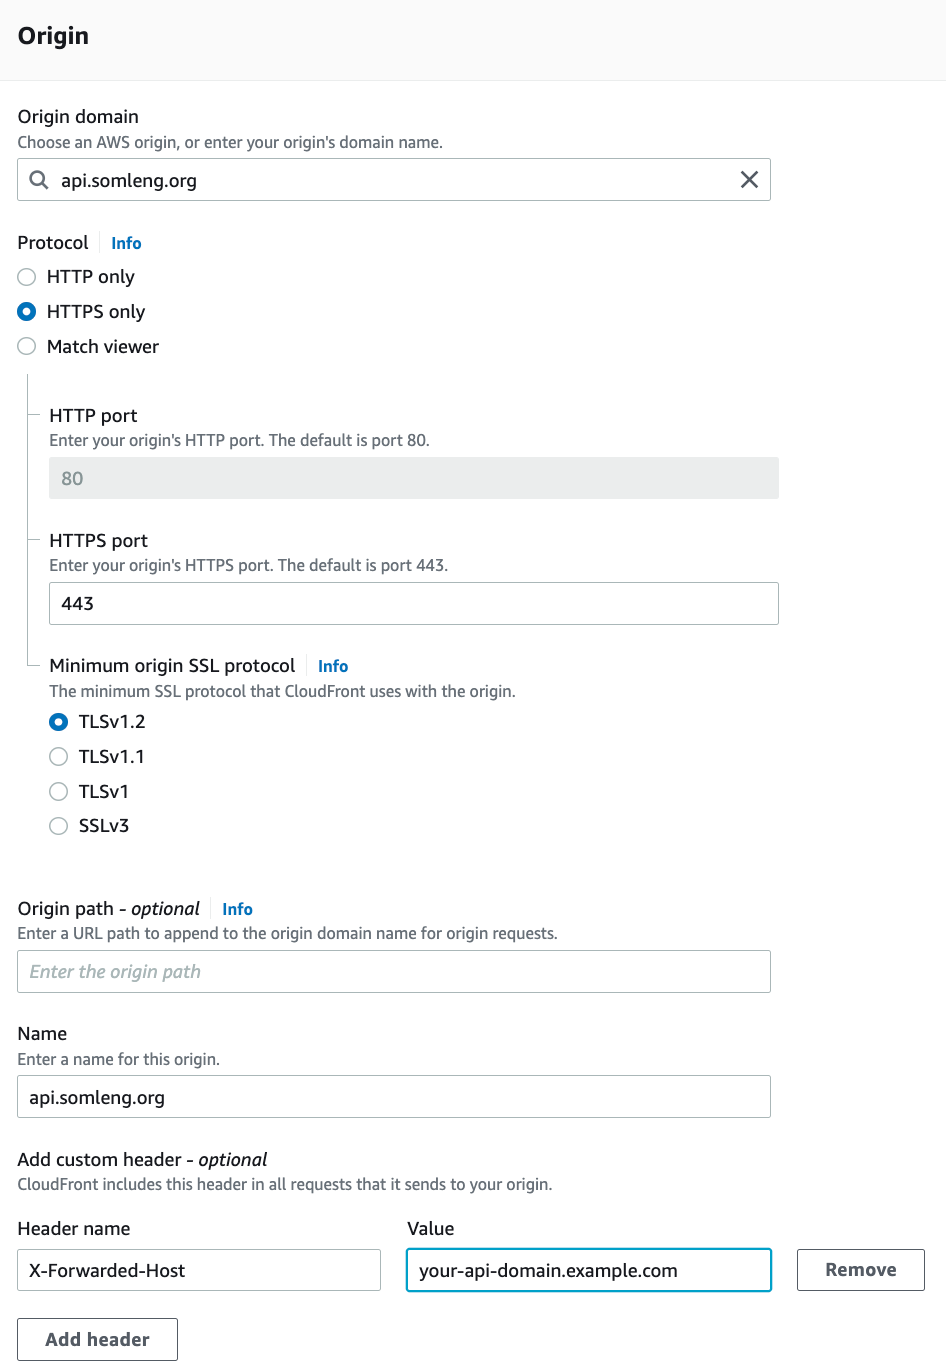
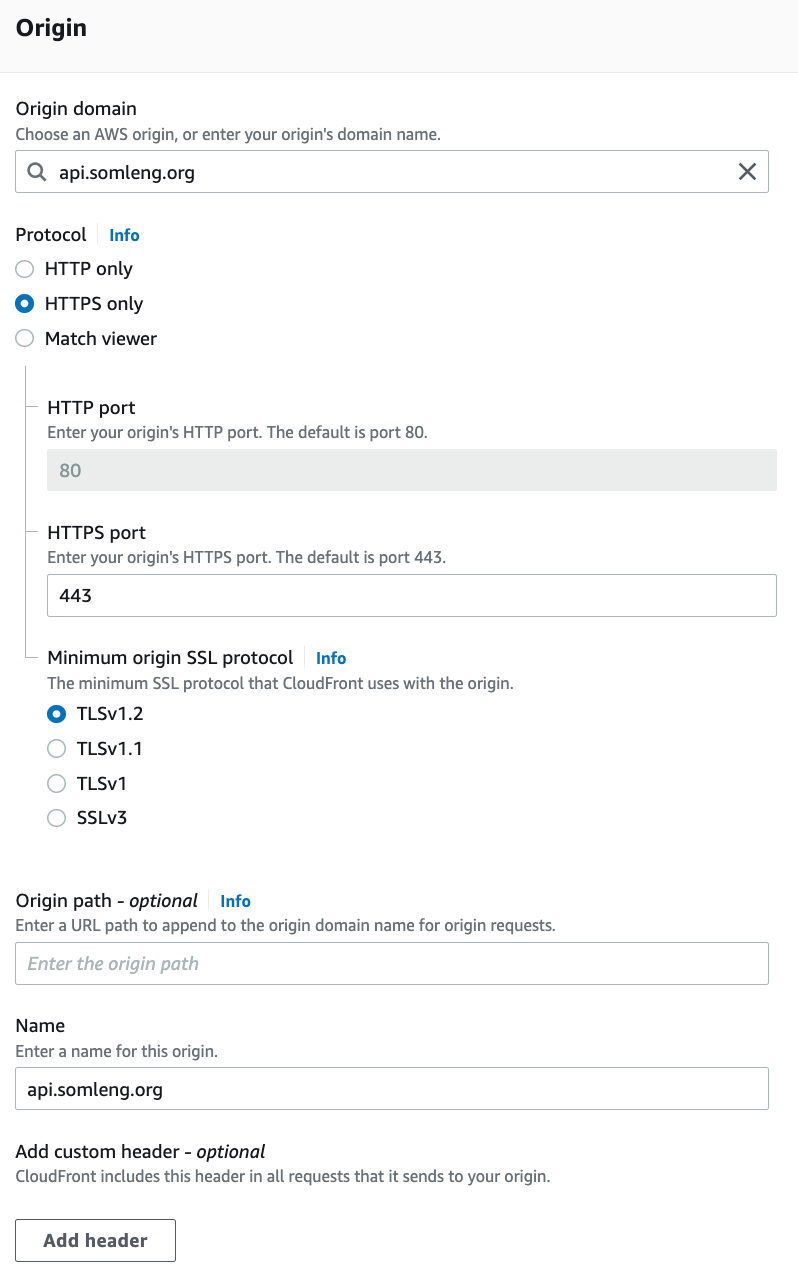
WIP

diff --git a/public/website/carrier_documentation.html b/public/website/carrier_documentation.html
@@ -877,6 +877,9 @@ module "somleng_proxy_api" {
                     <li>
                       Set 'Origin domain to' <strong>api.somleng.org</strong>
                     </li>
+                    <li>
+                      <strong>DO NOT</strong> set the X-Forwarded-Host header
+                    </li>
                   </ul>
                 </p>
               </div>
@@ -892,7 +895,6 @@ module "somleng_proxy_api" {
 
                 <p>
                   The following Nginx configuration can be used to setup an Nginx reverse proxy to Somleng.
-                  Note that you must set the <strong>X-Forwarded-Host</strong> header to your custom domain.
                 </p>
 
                 <p>
@@ -911,6 +913,7 @@ module "somleng_proxy_api" {
   }
 
   # Optionally configure a custom API endpoint
+  # Note: DO NOT set X-Forwarded-Host for your custom API endpoint
   server {
     listen 443;
     server_name api.example.com; # replace this with your api domain
@@ -919,7 +922,6 @@ module "somleng_proxy_api" {
     ssl_certificate_key /path/to/your/privatekey.pem;
 
     location / {
-      proxy_set_header X-Forwarded-Host api.example.com; # replace this with your api domain
       proxy_pass "https://api.somleng.org:443";
     }
   }</code></pre>
